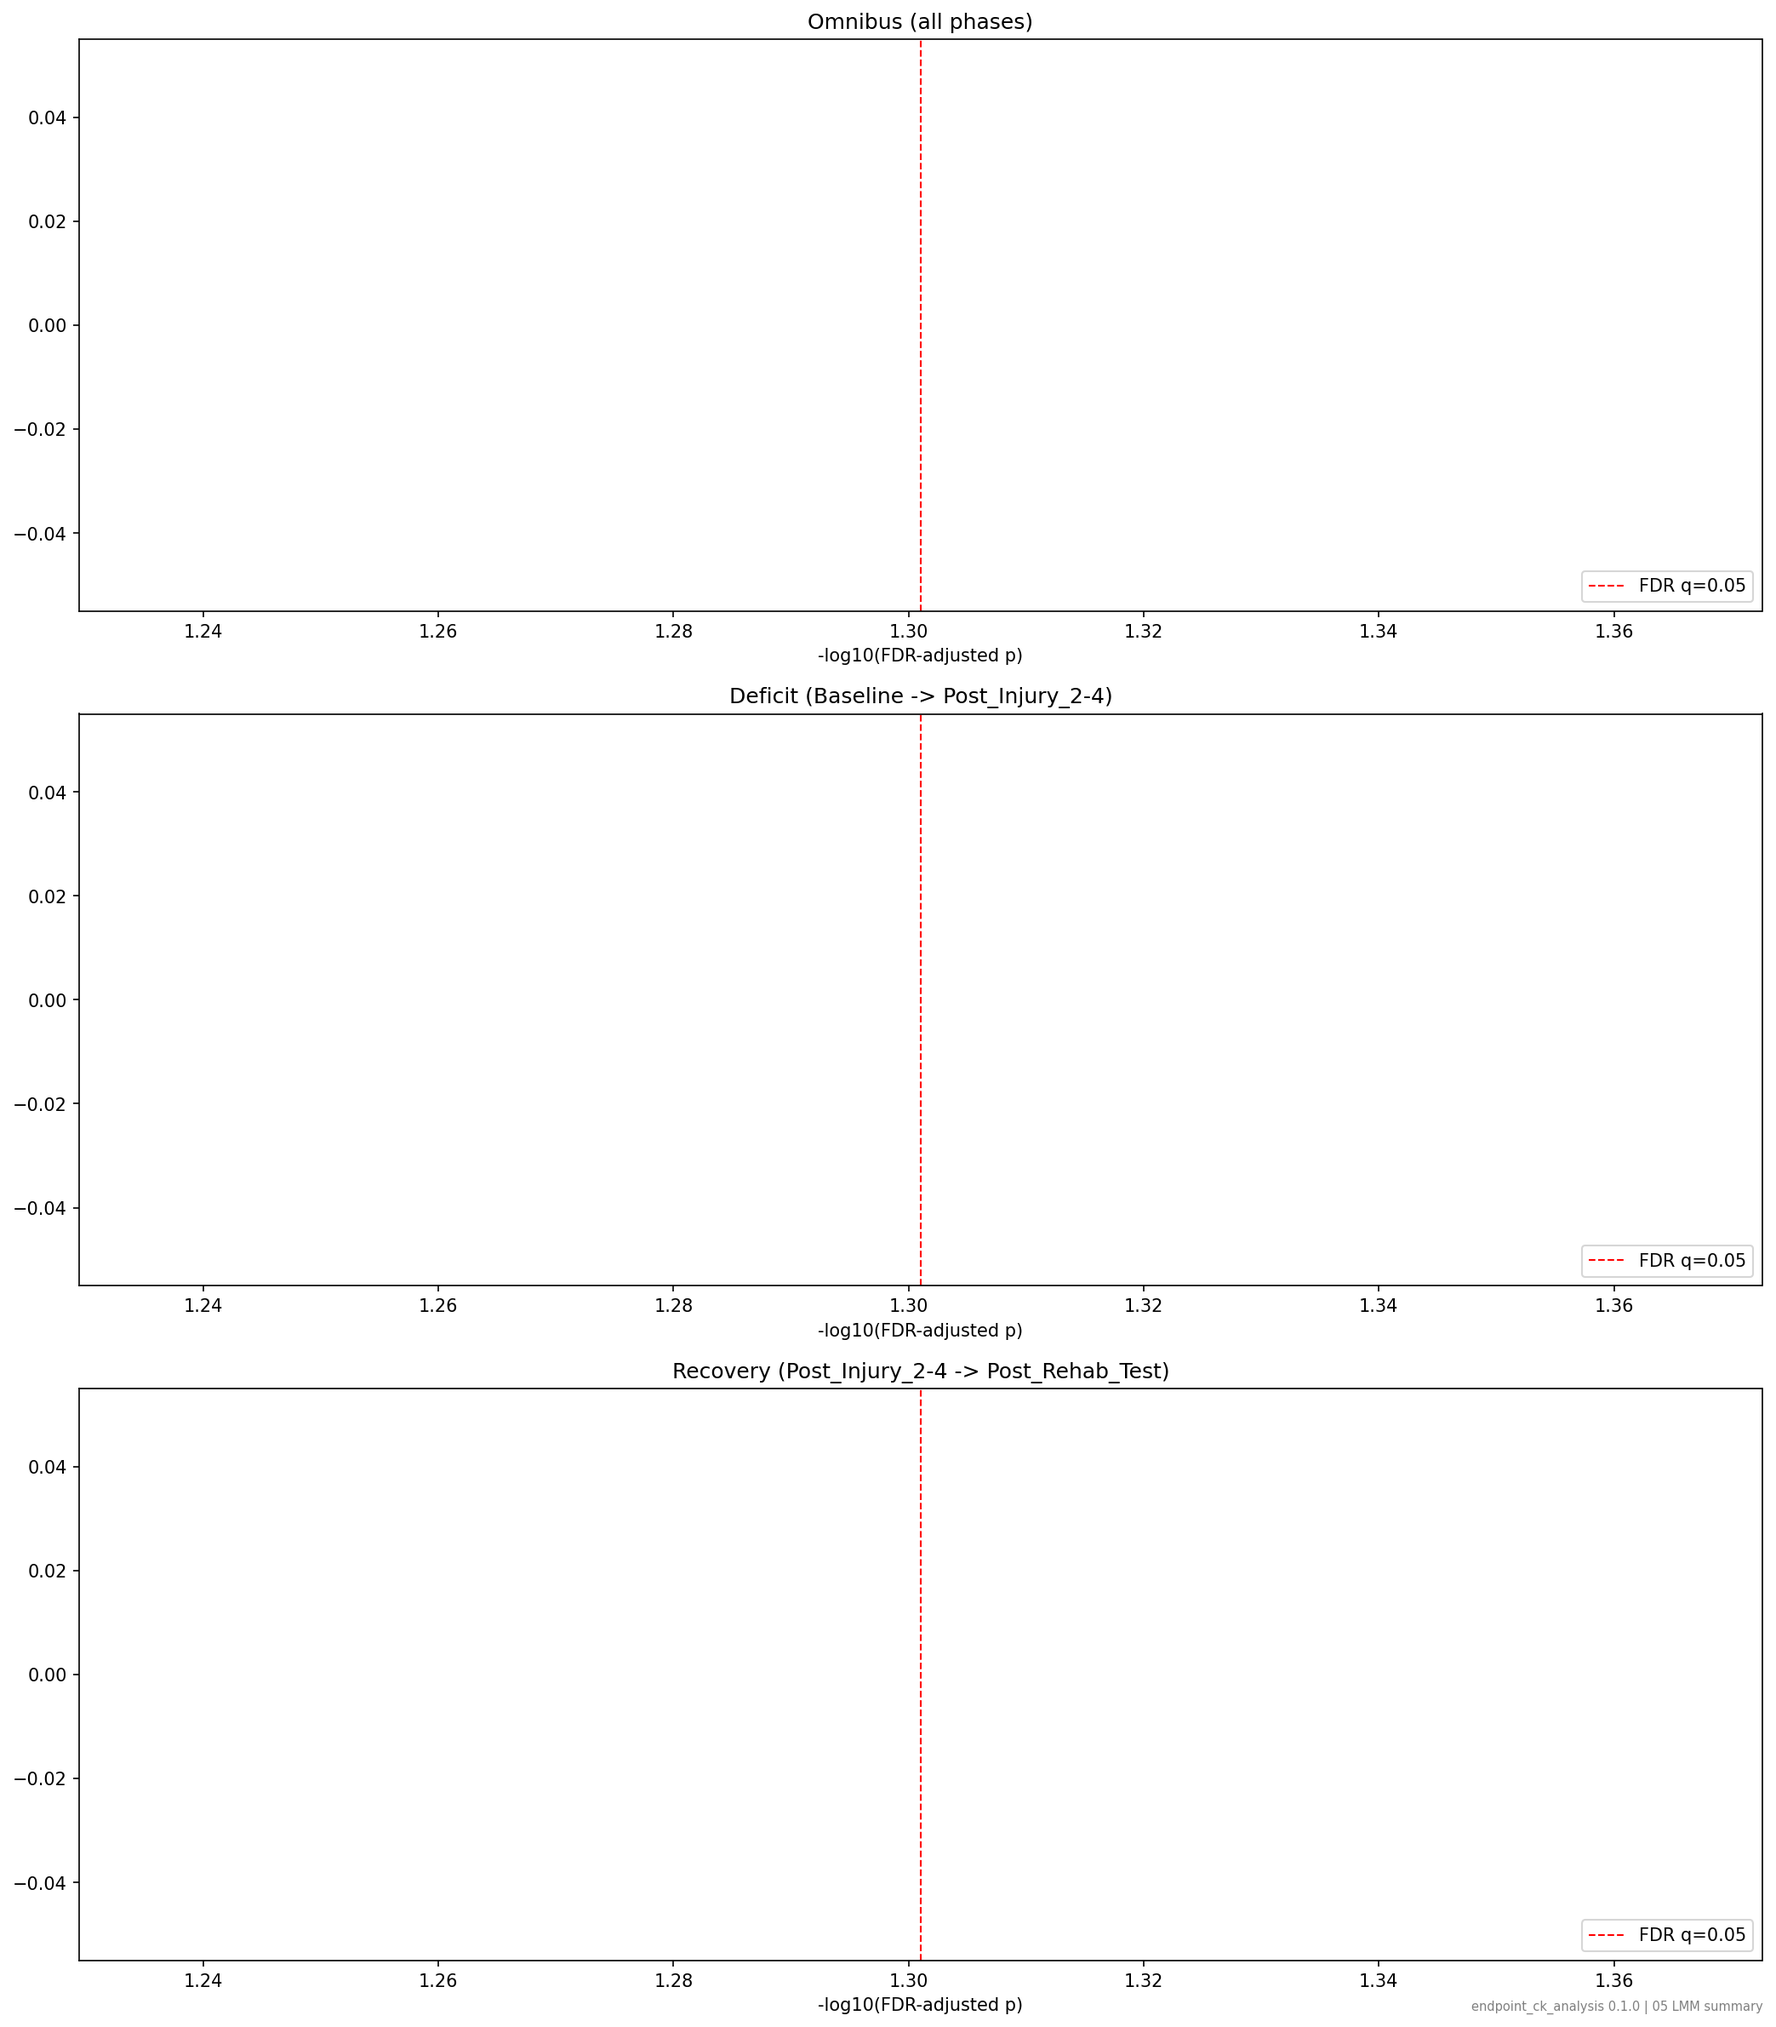
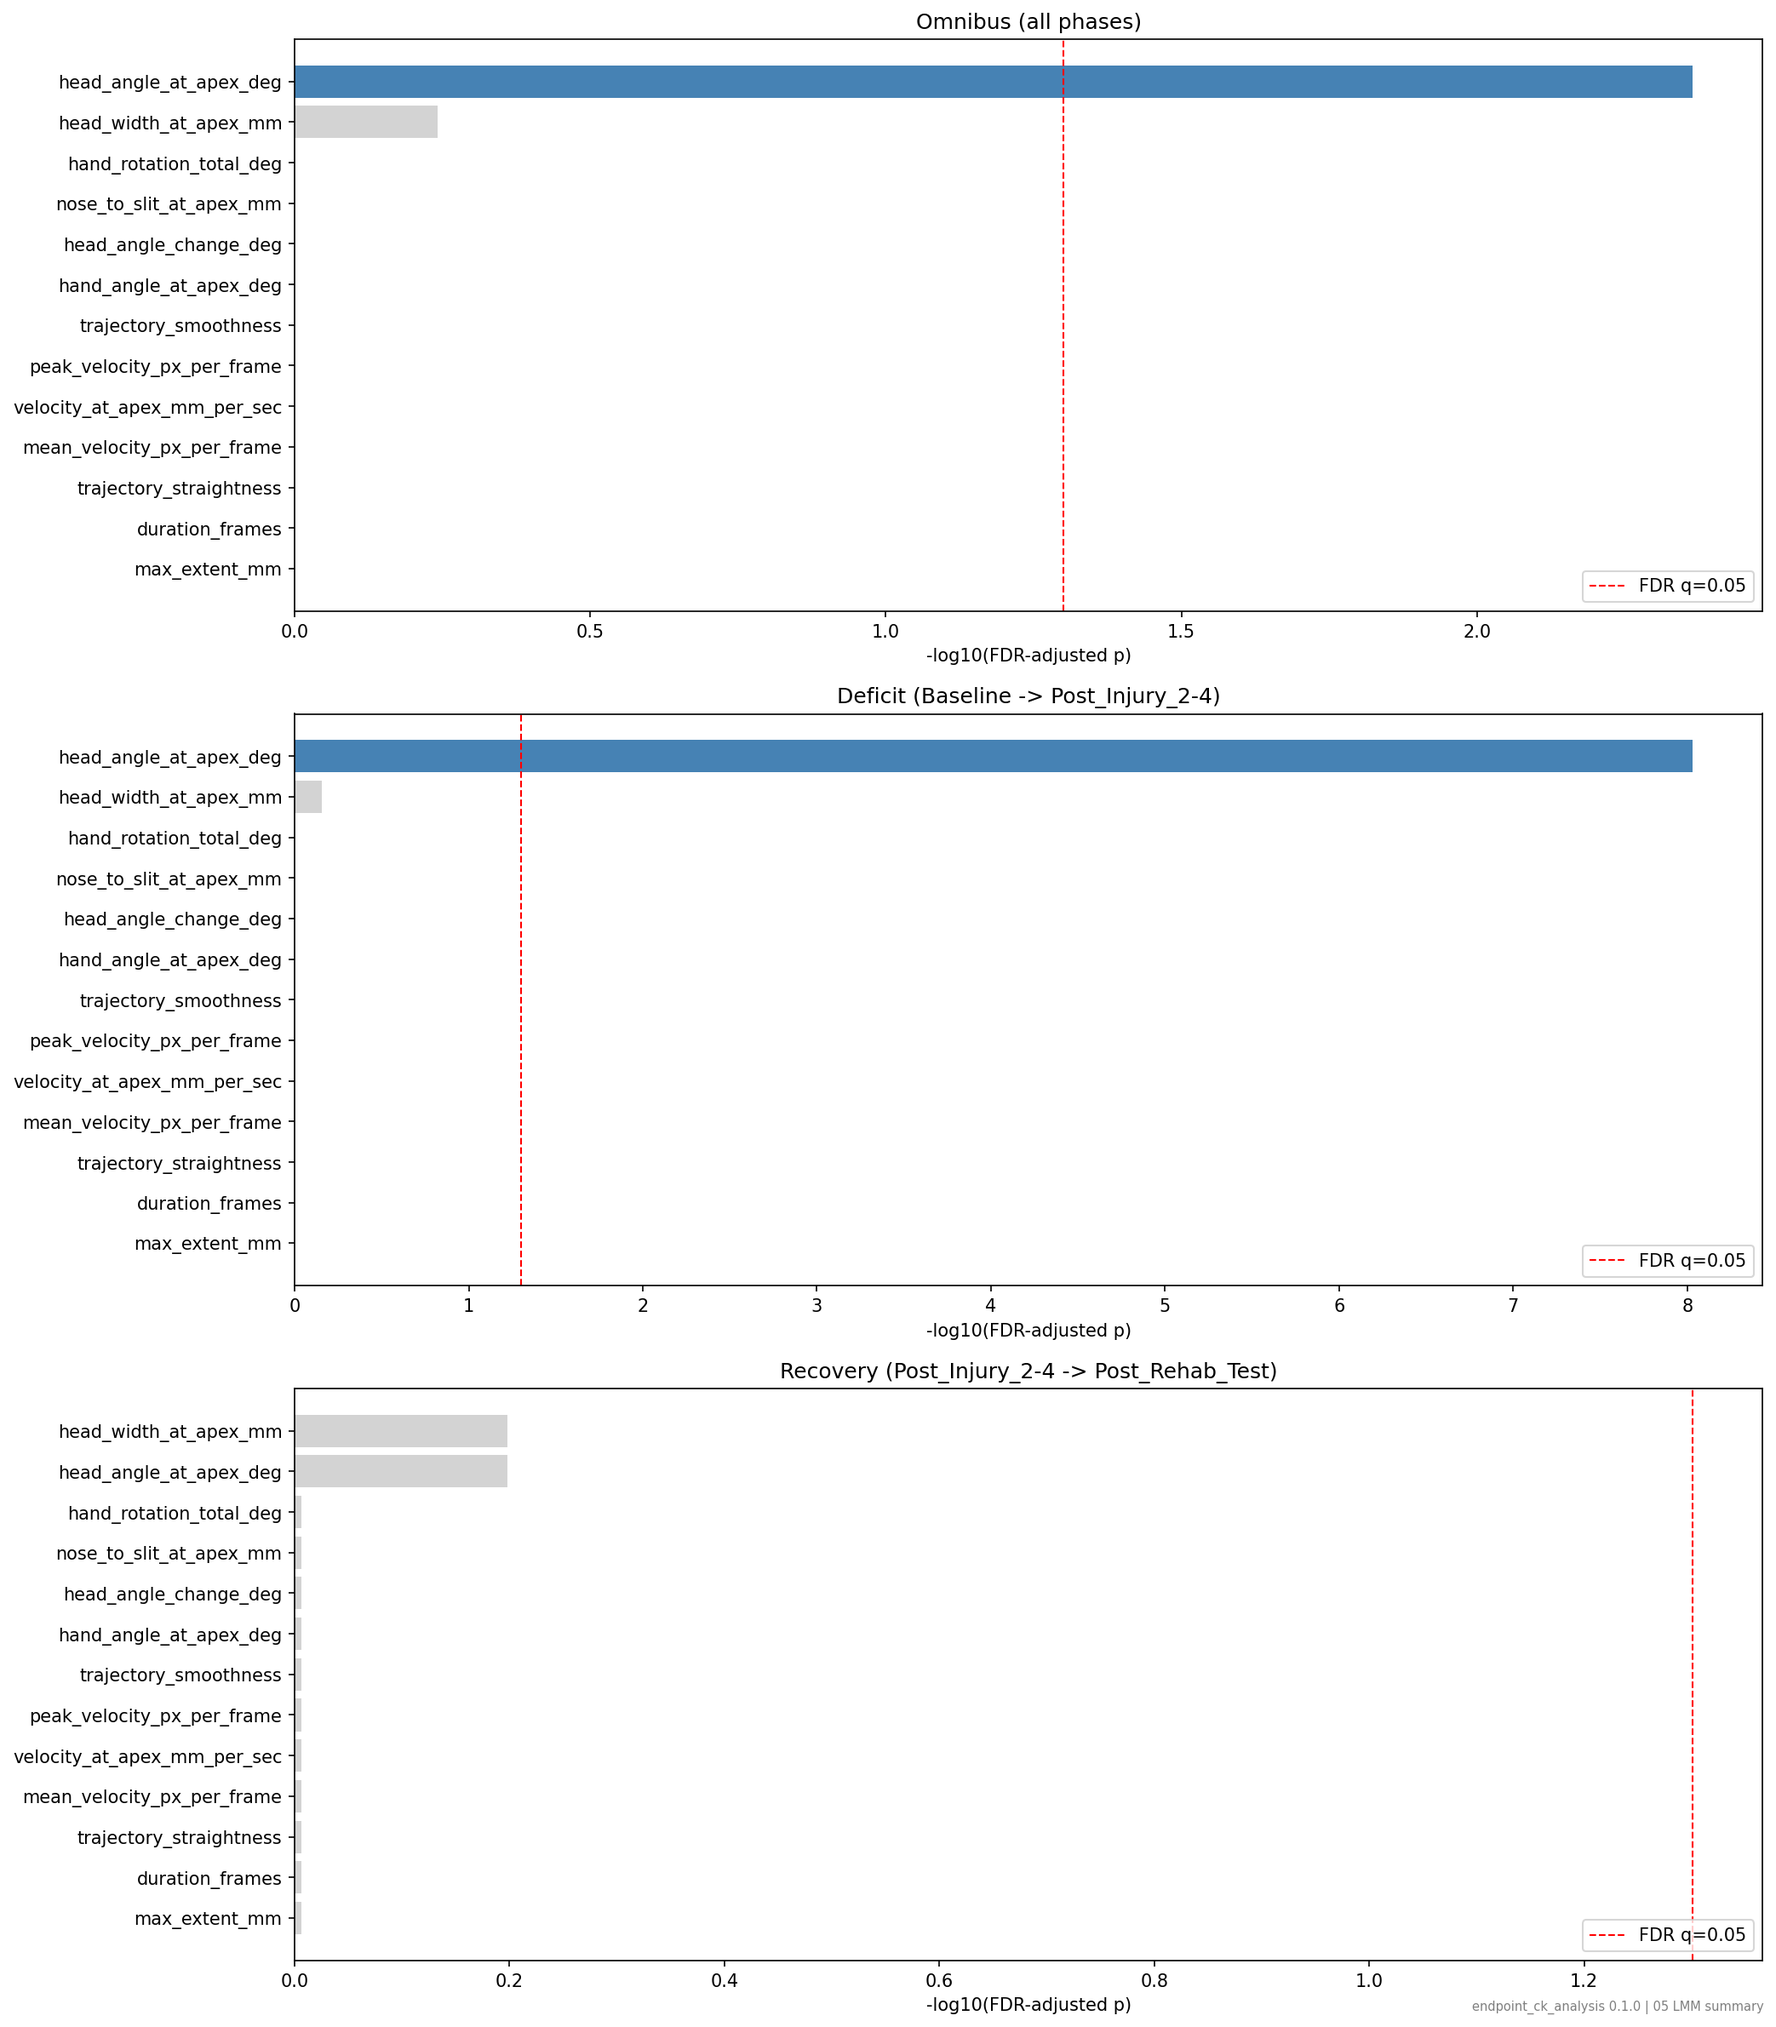
Fix LMM phase tests broken by statsmodels 0.14 API changes
Two regressions surfaced when notebook 05 was run interactively:

1. wald_test_terms().table renamed its p-value column from "P>chi2"
   to "pvalue" in statsmodels 0.14. fit_phase_lmm was looking up the
   old column name, raising KeyError, which got swallowed by the
   except block and turned every feature's p-value into NaN. Result:
   bar charts had no bars even though every cell "executed cleanly."
   Fixed by trying the new column name first with fallback to the
   legacy name. Also cast to plain float since 0.14+ returns 0-d
   arrays that broke downstream FDR.

2. pandas now serializes DataFrame.attrs to JSON-flavored parquet
   metadata, and MixedLMResultsWrapper objects stashed there for
   "post-hoc contrasts" weren't JSON-serializable, breaking
   to_parquet. Removed the wrapper storage; if post-hoc contrasts are
   ever needed, the calling notebook can hold raw_results directly.

Audit miss: my prior end-to-end test reported all 10 notebooks as
"clean" because each cell emitted output. It didn't check whether the
output contained meaningful values vs. all-NaN. Lesson logged in user
memory for future audits.

diff --git a/mousedb/endpoint_ck_analysis/endpoint_ck_analysis/helpers/models.py b/mousedb/endpoint_ck_analysis/endpoint_ck_analysis/helpers/models.py
@@ -101,7 +101,13 @@ def fit_phase_lmm(df: pd.DataFrame, feature: str) -> Dict[str, Any]:
 
         # Omnibus Wald test for "does phase matter at all, pooling over all levels?"
         wald_table = result.wald_test_terms().table                                # statsmodels returns a small DataFrame of Wald tests per term; .table extracts it
-        phase_p = wald_table.loc["C(phase_group)", "P>chi2"]                       # pull the p-value cell for the phase term
+        # Statsmodels >=0.14 renamed the p-value column from "P>chi2" to "pvalue".
+        # Try the new name first; fall back to the legacy name for older installs.
+        if "pvalue" in wald_table.columns:                                         # statsmodels 0.14+: column is 'pvalue'
+            phase_p = wald_table.loc["C(phase_group)", "pvalue"]
+        else:                                                                       # legacy (<0.14): column was 'P>chi2'
+            phase_p = wald_table.loc["C(phase_group)", "P>chi2"]
+        phase_p = float(phase_p)                                                   # cast to plain Python float; statsmodels 0.14+ returns 0-d numpy arrays which FDR correction can't handle uniformly
 
         return {                                                                   # success result dict; mirrors the failure shape so the caller can build a uniform table
             "feature": feature,
@@ -165,9 +171,12 @@ def run_phase_lmm_for_features(
 
     results_df = results_df.sort_values("phase_p_adj").reset_index(drop=True)       # smallest adjusted p first; reset_index drops the original (now-shuffled) row numbers
 
-    # Stash fitted models in .attrs (survives groupby/merge on recent pandas) so post-hocs can find them.
-    results_df.attrs["feature_results"] = {r["feature"]: r for r in raw_results}   # dict comprehension keyed by feature name for O(1) lookup
-    results_df.attrs["fdr_alpha"] = fdr_alpha                                       # remember the alpha used so downstream code can label it
+    # Stash the FDR alpha on .attrs for downstream labeling. We deliberately do NOT
+    # stash the fitted model objects on .attrs: pandas serializes .attrs as JSON
+    # when writing parquet, and statsmodels' MixedLMResultsWrapper is not
+    # JSON-serializable. If post-hoc contrasts are ever needed, hold onto the
+    # raw_results list directly in the calling notebook instead.
+    results_df.attrs["fdr_alpha"] = fdr_alpha                                       # FDR alpha is a plain float -> safe for parquet metadata
     return results_df
 
 
